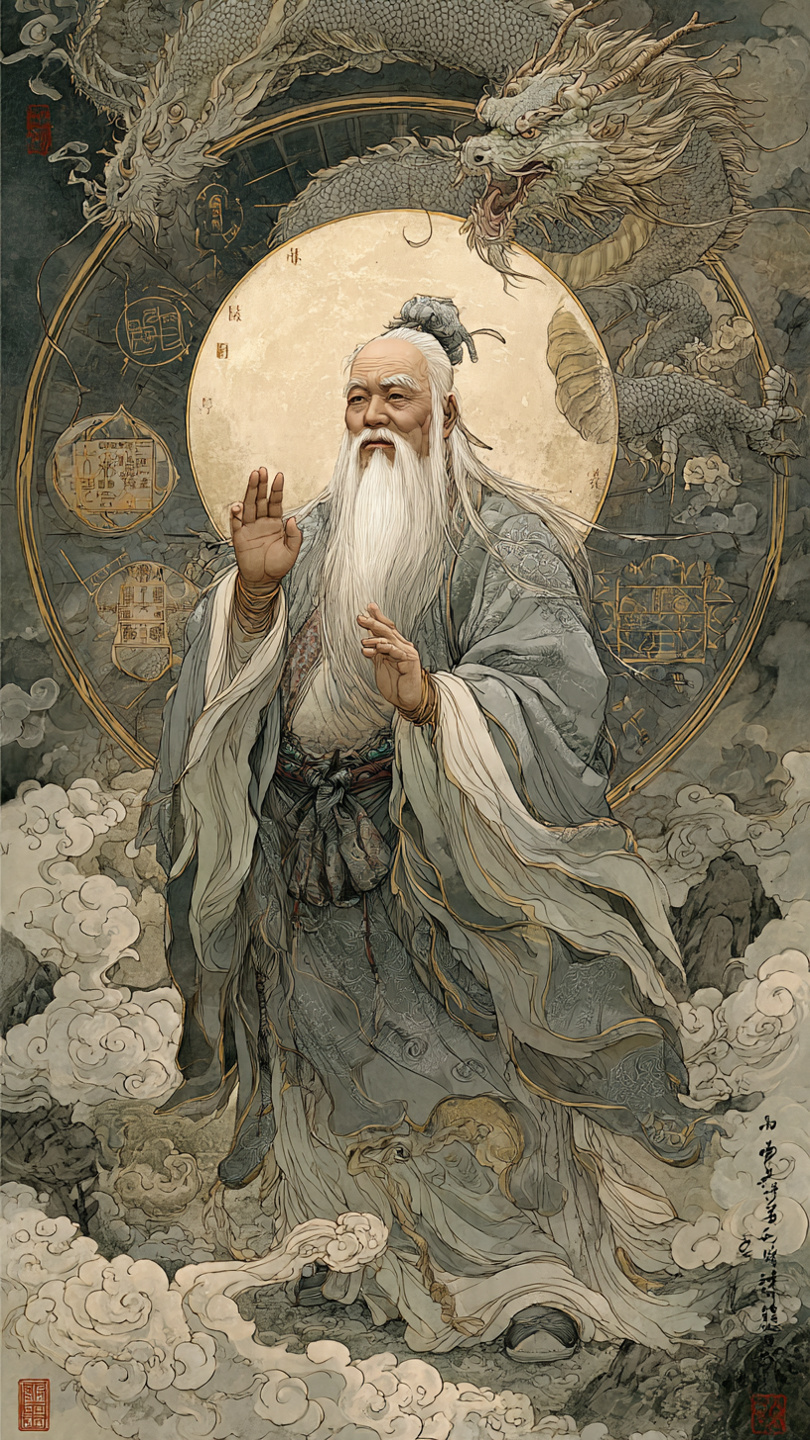
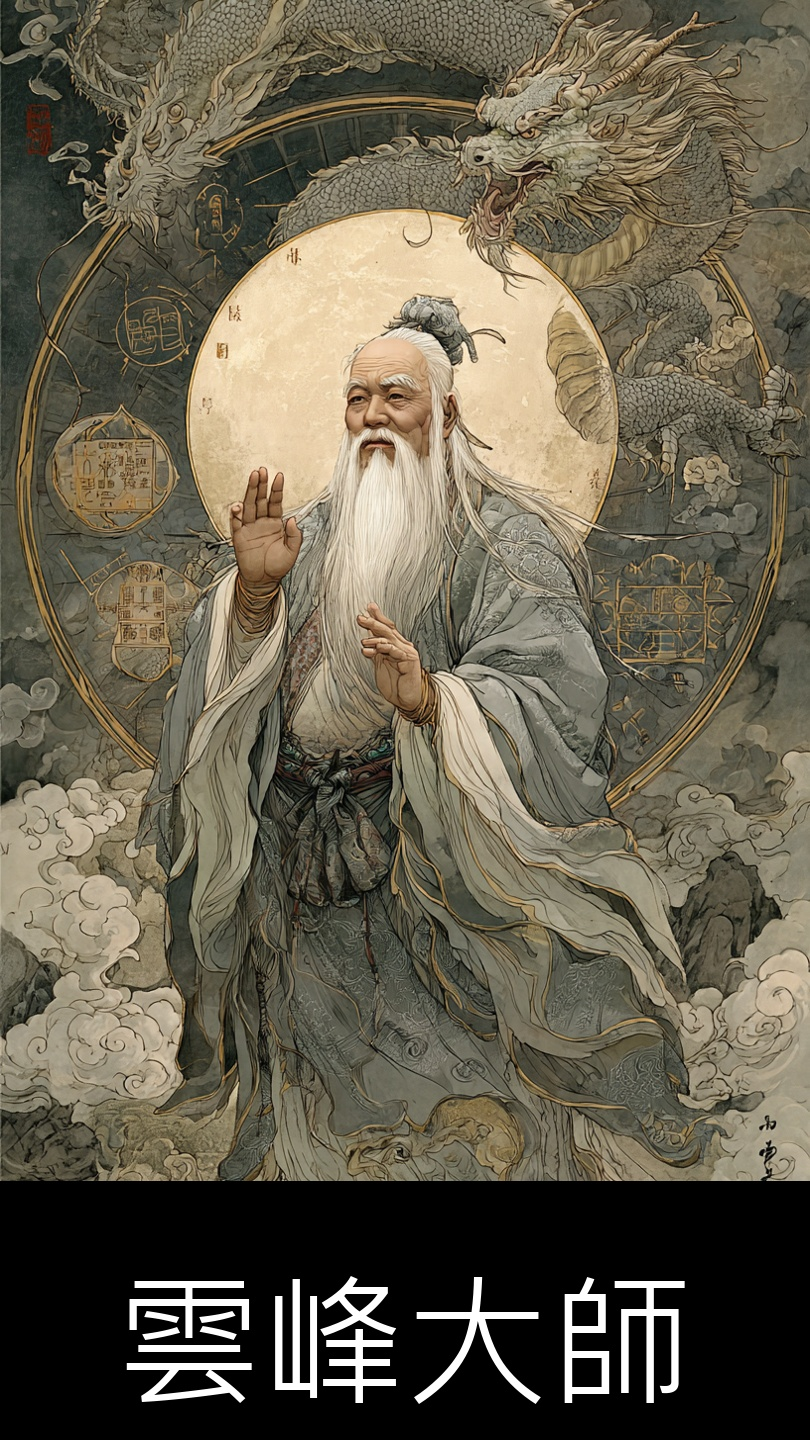
add name overlay to all companion images

Changed region(s): [[0.0, 0.8125, 1.0, 1.0]]

diff --git a/batch_overlay.py b/batch_overlay.py
@@ -1,0 +1,93 @@
+"""批次處理所有Companion圖片，加上名字浮水印"""
+
+import os
+import sys
+from PIL import Image, ImageDraw, ImageFont
+
+# 設定路徑
+INPUT_DIR = r"C:\Users\Joshyoh\.openclaw\workspace\eldercare-project\code\static\images"
+OUTPUT_DIR = r"C:\Users\Joshyoh\.openclaw\workspace\eldercare-project\code\static\images"
+
+# Companion名字對應表
+COMPANION_NAMES = {
+    "scholar": "老陳",
+    "grandma": "美雲阿姨",
+    "comedian": "阿Ken",
+    "chef": "阿美姐",
+    "astrologer": "韻璇",
+    "fengshui": "雲峰大師",
+    "rockefeller": "洛克菲勒",
+    "li_ka_shing": "李嘉誠",
+    "james_simons": "西蒙斯",
+    "scientist": "林博士",
+    "dr_lin": "林博士",
+    "music_teacher": "阿傑",
+}
+
+def add_name_overlay(image_path, name, output_path):
+    """在圖片底部加上半透明黑色橫幅和名字"""
+    try:
+        img = Image.open(image_path).convert('RGB')
+        img_w, img_h = img.size
+        
+        draw = ImageDraw.Draw(img)
+        
+        # 字體大小根據圖片調整
+        font_size = max(int(img_h * 0.1), 35)
+        try:
+            font = ImageFont.truetype("C:/Windows/Fonts/msjh.ttc", font_size)
+        except:
+            font = ImageFont.truetype("C:/Windows/Fonts/arial.ttf", font_size)
+        
+        # 底部半透明黑色橫幅
+        bar_height = int(img_h * 0.18)
+        bar_y = img_h - bar_height
+        
+        # 建立半透明覆蓋層
+        overlay = Image.new('RGBA', (img_w, bar_height), (0, 0, 0, 200))
+        img.paste(overlay, (0, bar_y))
+        
+        draw = ImageDraw.Draw(img)
+        
+        # 計算文字位置（置中）
+        bbox = draw.textbbox((0, 0), name, font=font)
+        text_w = bbox[2] - bbox[0]
+        text_x = (img_w - text_w) // 2
+        text_y = bar_y + (bar_height - (bbox[3] - bbox[1])) // 2 - 5
+        
+        # 白色文字
+        draw.text((text_x, text_y), name, font=font, fill=(255, 255, 255))
+        
+        img.save(output_path, quality=95)
+        return True
+    except Exception as e:
+        print(f"Error: {e}")
+        return False
+
+
+def main():
+    # 設定輸出編碼
+    sys.stdout.reconfigure(encoding='utf-8')
+    
+    count = 0
+    for filename in os.listdir(INPUT_DIR):
+        if not filename.endswith(('.jpeg', '.jpg', '.png')):
+            continue
+        
+        # 從檔名取得companion key
+        companion_key = filename.rsplit('.', 1)[0]
+        
+        if companion_key in COMPANION_NAMES:
+            name = COMPANION_NAMES[companion_key]
+            input_path = os.path.join(INPUT_DIR, filename)
+            output_path = os.path.join(OUTPUT_DIR, filename)
+            
+            print(f"Processing: {filename} -> {name}")
+            if add_name_overlay(input_path, name, output_path):
+                count += 1
+    
+    print(f"\nDone! {count} images processed.")
+
+
+if __name__ == "__main__":
+    main()

diff --git a/avatar_overlay.py b/avatar_overlay.py
@@ -1,0 +1,58 @@
+"""
+Companion Avatar Generator - 把名字加在圖片上
+"""
+
+from PIL import Image, ImageDraw, ImageFont
+import os
+
+def add_name_overlay(image_path, name, output_path):
+    """在圖片上加上名字浮水印"""
+    try:
+        img = Image.open(image_path).convert('RGB')
+        img_w, img_h = img.size
+        
+        # 字體大小根據圖片調整
+        font_size = max(int(img_h * 0.08), 30)
+        try:
+            font = ImageFont.truetype("C:/Windows/Fonts/msjh.ttc", font_size)
+        except:
+            font = ImageFont.truetype("C:/Windows/Fonts/arial.ttf", font_size)
+        
+        draw = ImageDraw.Draw(img)
+        
+        # 半透明黑色背景
+        overlay_h = int(img_h * 0.15)
+        overlay = Image.new('RGBA', (img_w, overlay_h), (0, 0, 0, 180))
+        img.paste(overlay, (0, img_h - overlay_h), overlay)
+        
+        draw = ImageDraw.Draw(img)
+        
+        # 白字
+        name_short = name  # 可以根據需要截斷
+        text_y = img_h - int(overlay_h * 0.65)
+        
+        # 左右留白
+        margin = int(img_w * 0.05)
+        
+        draw.text((margin, text_y), name_short, font=font, fill=(255, 255, 255))
+        
+        img.save(output_path, quality=95)
+        return True
+    except Exception as e:
+        print(f"Error adding overlay: {e}")
+        return False
+
+
+if __name__ == "__main__":
+    import sys
+    
+    if len(sys.argv) < 4:
+        print("Usage: python avatar_overlay.py <input_image> <name> <output_image>")
+        sys.exit(1)
+    
+    input_path = sys.argv[1]
+    name = sys.argv[2]
+    output_path = sys.argv[3]
+    
+    success = add_name_overlay(input_path, name, output_path)
+    print(f"Success: {success}" if success else f"Failed")
